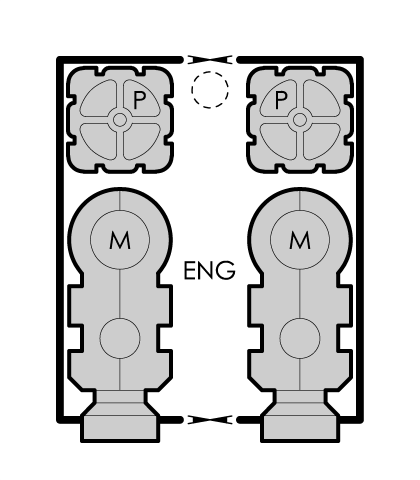
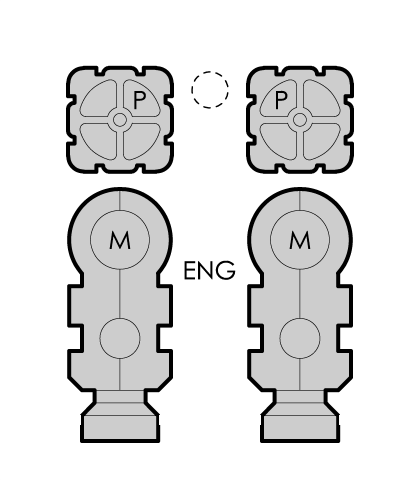
Floor plans: engineering sections without their own outer walls
unwall.py takes off long straight wall strokes with clear either side, and
strokes along the footprint's edge with clear outside, with the doors and
dashes left standing in them. The plan draws the room's walls itself.

Changed region(s): [[0.1238, 0.0938, 0.8667, 0.9062], [0.3714, 0.8438, 0.619, 0.9062]]

diff --git a/scripts/floorplan/unwall.py b/scripts/floorplan/unwall.py
@@ -1,0 +1,147 @@
+"""Take the outer walls off a room drawing, leaving what is inside them.
+
+A floor plan draws its own walls round every room, so a fitted room laid on
+it does not need its own: they double the line, and where the plan's room is
+a different shape they stand in the wrong place.
+
+Run on the drawing as it comes, before its white is made clear. There the
+floor inside the walls and the space outside them are both clear, while
+furniture is filled white and machinery grey. So a wall is a long straight
+black stroke, across, down or at forty-five degrees, a few pixels thick, with
+clear on both sides of it; an outline round machinery or furniture has fill
+on one side and stays. Doors and dashes left standing alone where a wall was
+are small pieces near it, and go too.
+"""
+from collections import deque
+
+DARK = 100        # a channel this dark or darker is line
+THICK = 7         # a wall stroke is at most this many pixels across
+LONG = 24         # and runs straight for at least this many
+NEAR = 6          # a small leftover this near a wall that went is part of it
+SMALL = 700       # pixels; anything larger left near a wall is kept
+BAND = 5          # how far either side of the footprint's edge a wall lies
+
+DIRECTIONS = [((1, 0), (0, 1)), ((0, 1), (1, 0)), ((1, 1), (1, -1)), ((1, -1), (1, 1))]
+
+
+def unwall(pixels, footprint=None):
+    """The drawing without its walls, and how many pixels went. footprint is its size in squares, at 60 pixels each, centred in the image."""
+    height, width = len(pixels), len(pixels[0])
+    clear = lambda x, y: not (0 <= x < width and 0 <= y < height) or pixels[y][x][3] < 128  # noqa: E731
+    dark = lambda x, y: 0 <= x < width and 0 <= y < height and pixels[y][x][3] >= 128 and max(pixels[y][x][:3]) <= DARK  # noqa: E731
+
+    wall = [[False] * width for _ in range(height)]
+    for y in range(height):
+        for x in range(width):
+            if not dark(x, y):
+                continue
+            for (dx, dy), (nx, ny) in DIRECTIONS:
+                # Across the stroke: its thickness here, and what lies either side.
+                a = 0
+                while a <= THICK and dark(x + nx * (a + 1), y + ny * (a + 1)):
+                    a += 1
+                b = 0
+                while b <= THICK and dark(x - nx * (b + 1), y - ny * (b + 1)):
+                    b += 1
+                if a + b + 1 > THICK:
+                    continue
+                side1 = any(clear(x + nx * (a + k), y + ny * (a + k)) for k in (1, 2, 3))
+                side2 = any(clear(x - nx * (b + k), y - ny * (b + k)) for k in (1, 2, 3))
+                if not (side1 and side2):
+                    continue
+                # Along it: how far it runs straight.
+                run = 1
+                k = 1
+                while run < LONG and dark(x + dx * k, y + dy * k):
+                    run += 1
+                    k += 1
+                k = 1
+                while run < LONG and dark(x - dx * k, y - dy * k):
+                    run += 1
+                    k += 1
+                if run >= LONG:
+                    wall[y][x] = True
+                    break
+
+    # Where machinery stands against a wall, the wall has fill on its inner
+    # side and is not clear both sides. Such walls lie along the edge of the
+    # drawing's own footprint, so there a stroke with clear just outside the
+    # footprint goes too; machinery reaching past the edge has fill outside.
+    if footprint is not None:
+        fw, fh = footprint
+        left, top = (width - fw * 60) // 2, (height - fh * 60) // 2
+        right, bottom = left + fw * 60, top + fh * 60
+        for y in range(height):
+            for x in range(width):
+                if not dark(x, y):
+                    continue
+                if abs(x - left) <= BAND and top - BAND <= y <= bottom + BAND and clear(left - BAND - 3, y):
+                    wall[y][x] = True
+                elif abs(x - right) <= BAND and top - BAND <= y <= bottom + BAND and clear(right + BAND + 3, y):
+                    wall[y][x] = True
+                elif abs(y - top) <= BAND and left - BAND <= x <= right + BAND and clear(x, top - BAND - 3):
+                    wall[y][x] = True
+                elif abs(y - bottom) <= BAND and left - BAND <= x <= right + BAND and clear(x, bottom + BAND + 3):
+                    wall[y][x] = True
+
+    # The wall's own soft edge goes with it.
+    out = [list(row) for row in pixels]
+    taken = 0
+    for y in range(height):
+        for x in range(width):
+            if wall[y][x]:
+                for ox in (-1, 0, 1):
+                    for oy in (-1, 0, 1):
+                        px, py = x + ox, y + oy
+                        if 0 <= px < width and 0 <= py < height and out[py][px][3] > 0 and (ox == oy == 0 or max(out[py][px][:3]) < 200):
+                            r, g, b, _ = out[py][px]
+                            out[py][px] = (r, g, b, 0)
+                            taken += 1
+
+    # Small pieces left standing where a wall was: doors set in it, dashes.
+    near = [[False] * width for _ in range(height)]
+    queue = deque((x, y, 0) for y in range(height) for x in range(width) if wall[y][x])
+    while queue:
+        x, y, d = queue.popleft()
+        if d > NEAR:
+            continue
+        for nx, ny in ((x + 1, y), (x - 1, y), (x, y + 1), (x, y - 1)):
+            if 0 <= nx < width and 0 <= ny < height and not near[ny][nx]:
+                near[ny][nx] = True
+                queue.append((nx, ny, d + 1))
+    seen = [[False] * width for _ in range(height)]
+    for y in range(height):
+        for x in range(width):
+            if seen[y][x] or out[y][x][3] == 0:
+                continue
+            piece = []
+            stack = [(x, y)]
+            seen[y][x] = True
+            while stack:
+                cx, cy = stack.pop()
+                piece.append((cx, cy))
+                for nx, ny in ((cx + 1, cy), (cx - 1, cy), (cx, cy + 1), (cx, cy - 1)):
+                    if 0 <= nx < width and 0 <= ny < height and not seen[ny][nx] and out[ny][nx][3] > 0:
+                        seen[ny][nx] = True
+                        stack.append((nx, ny))
+            if len(piece) <= SMALL and any(near[py][px] for px, py in piece):
+                for px, py in piece:
+                    r, g, b, _ = out[py][px]
+                    out[py][px] = (r, g, b, 0)
+                    taken += 1
+    return out, taken
+
+
+if __name__ == "__main__":
+    import os
+    import sys
+
+    sys.path.insert(0, os.path.dirname(__file__))
+    import pngtools
+
+    src, dst = sys.argv[1], sys.argv[2]
+    footprint = (int(sys.argv[3]), int(sys.argv[4])) if len(sys.argv) > 4 else None
+    _, _, px = pngtools.read(src)
+    result, taken = unwall(px, footprint)
+    pngtools.write(dst, result)
+    print(taken, "pixels of wall taken off")

diff --git a/scripts/floorplan/symbols.py b/scripts/floorplan/symbols.py
@@ -21,6 +21,7 @@ import sys
 sys.path.insert(0, os.path.dirname(__file__))
 import pngtools  # noqa: E402
 import sheet  # noqa: E402
+import unwall  # noqa: E402
 
 ROOT = "D:/SandPit/ShipParts/"
 SYM = "CustomTiles/Symbols/"
@@ -153,6 +154,10 @@ for ident, name, category, rel, *extra in PICKS:
     # colour shows through and nothing draws as a black block when the screen
     # inverts it.
     _, _, px = pngtools.read(src)
+    # Engineering sections lose their own outer walls: the plan draws the
+    # room's walls itself, round whatever shape the room is painted.
+    if category == "engineering":
+        px, _ = unwall.unwall(px, (max(1, math.ceil(wide / 5)), max(1, math.ceil(high / 5))))
     pngtools.write(DST + ident + ".png", [[(r, g, b, 0) if min(r, g, b) >= sheet.WHITE else (r, g, b, a) for r, g, b, a in row] for row in px])
     catalogue.append({
         "id": ident,

diff --git a/FloorPlanSpec.md b/FloorPlanSpec.md
@@ -131,7 +131,7 @@ Built through FP6 on 2026-10-11. Section 11 lists what was settled by default an
 
 7.6 Doors and iris valves in walls are drawn as lines, because they sit on edges and the library's door images are whole assemblies. A door is a gap in the wall with its leaf across it. An iris valve in a wall is the bowtie the geomorph tiles draw for one: two triangles pointing at the middle of the gap. An iris valve between decks is the library's own: Starship Symbols iris valve 005, solid, for one in the floor, and 013, dashed, for one in the ceiling, dashed being the symbols' way of showing something overhead. Lifts and stairs use the library's lift and stairs.
 
-7.7 **The library** is one list, in sections: access; turrets, launchers and barbettes; engineering; standard rooms; empty rooms; staterooms and beds; freshers; common areas; medical; furniture; consoles; cargo; craft and vehicles; and an arboretum. It draws on three sources. Robert Pearce's Starship Symbols give the fitted rooms, engineering sections of 4 to 63 tons, lounges and galleys, and furniture. His Adventure Class Geomorphs give the turrets and barbettes DV-001 to DV-009, a luxury stateroom and a luxury lounge. His Symbols & Abbreviations sheet gives 69 pieces cut out one by one: beds and bunks, freshers and sinks, medical beds and an autodoc, lockers, tables and gaming tables, machinery, batteries and computers, elevators, stairwells and hatches, launch tubes and a manned turret, cargo, and trees, boulders and a fountain. The standard rooms are his complete rooms for the book's fittings at its sizes where it gives one, a 6-ton workshop and a 4-ton medical bay, laboratory, briefing room and brig, with an armoury, classroom, computer room, office and storage; the empty rooms are his plain walls and door in ten sizes from 5 by 5 feet to 20 by 40. An air/raft, cut out of one of his air/raft bays, is the craft alone at its 4 tons. 155 pieces in all, about 760 KB. A piece the size of its drawing would misstate is given its footprint, drawn to fit it, and set against an edge where it stands against a wall: the lockers are a square each, the small one against the top of its square, and pieces that stand against a wall are drawn against that edge of their footprint, turning with it: toilets, sinks and the galley counter with their backs to the top, beds, desks and consoles with their heads or backs to the left, and the corner booth and bunks into the top left corner. Pieces from the sheet drawn a little larger than their squares, the cargo crates, freshers, showers, consoles, elevators, stairs and the like, are shrunk to sit just inside them, so their heavy outlines stay off the walls. The corner booth and the curved couch have the square frame they were drawn in taken off, leaving the curves, with the couch's seats given ends of their own where they met it. `src/floorplan/symbols.json` lists each with where it came from; `scripts/floorplan/symbols.py` copies them in and `scripts/floorplan/sheet.py` cuts the sheet. Every piece has its white made clear, so the floor's colour shows through it and nothing draws as a solid block. They are drawn as they are on paper and inverted on screen, with the hue turned back so the arboretum stays green and the fountain blue.
+7.7 **The library** is one list, in sections: access; turrets, launchers and barbettes; engineering; standard rooms; empty rooms; staterooms and beds; freshers; common areas; medical; furniture; consoles; cargo; craft and vehicles; and an arboretum. It draws on three sources. Robert Pearce's Starship Symbols give the fitted rooms, engineering sections of 4 to 63 tons, lounges and galleys, and furniture. His Adventure Class Geomorphs give the turrets and barbettes DV-001 to DV-009, a luxury stateroom and a luxury lounge. His Symbols & Abbreviations sheet gives 69 pieces cut out one by one: beds and bunks, freshers and sinks, medical beds and an autodoc, lockers, tables and gaming tables, machinery, batteries and computers, elevators, stairwells and hatches, launch tubes and a manned turret, cargo, and trees, boulders and a fountain. The standard rooms are his complete rooms for the book's fittings at its sizes where it gives one, a 6-ton workshop and a 4-ton medical bay, laboratory, briefing room and brig, with an armoury, classroom, computer room, office and storage; the empty rooms are his plain walls and door in ten sizes from 5 by 5 feet to 20 by 40. An air/raft, cut out of one of his air/raft bays, is the craft alone at its 4 tons. 155 pieces in all, about 760 KB. A piece the size of its drawing would misstate is given its footprint, drawn to fit it, and set against an edge where it stands against a wall: the lockers are a square each, the small one against the top of its square, and pieces that stand against a wall are drawn against that edge of their footprint, turning with it: toilets, sinks and the galley counter with their backs to the top, beds, desks and consoles with their heads or backs to the left, and the corner booth and bunks into the top left corner. Pieces from the sheet drawn a little larger than their squares, the cargo crates, freshers, showers, consoles, elevators, stairs and the like, are shrunk to sit just inside them, so their heavy outlines stay off the walls. The corner booth and the curved couch have the square frame they were drawn in taken off, leaving the curves, with the couch's seats given ends of their own where they met it. The engineering sections have their own outer walls taken off, since the plan draws the room's walls round whatever shape it is painted; a few stretches set back from the edge against machinery, mostly corners at forty-five degrees, are left. `src/floorplan/symbols.json` lists each with where it came from; `scripts/floorplan/symbols.py` copies them in and `scripts/floorplan/sheet.py` cuts the sheet. Every piece has its white made clear, so the floor's colour shows through it and nothing draws as a solid block. They are drawn as they are on paper and inverted on screen, with the hue turned back so the arboretum stays green and the fountain blue.
 
 7.8 **Placing always places.** A piece put down over another stands on it, as a chair stands on a fitted room's floor; only a lift, hatch or stairs replaces another on the same square. Taking a piece away is the Move tool and Delete.
 

diff --git a/scripts/floorplan/README.md b/scripts/floorplan/README.md
@@ -12,6 +12,9 @@ top of each script; change them to suit, then run `symbols.py` with Python 3.
   box is in the coordinates of the sheet shown 1200 pixels wide, and is
   tightened to the drawing. `python sheet.py contact.png` draws every cut on
   one page to check by eye.
+- `unwall.py` takes the outer walls off the engineering sections as they are
+  copied in, since the plan draws its own. `python unwall.py in.png out.png W H`
+  tries it on one drawing of W by H squares.
 - `pngtools.py` reads and writes PNG with nothing but the standard library.
 
 The art is Robert Pearce's Starship Symbols, Adventure Class Geomorphs and
